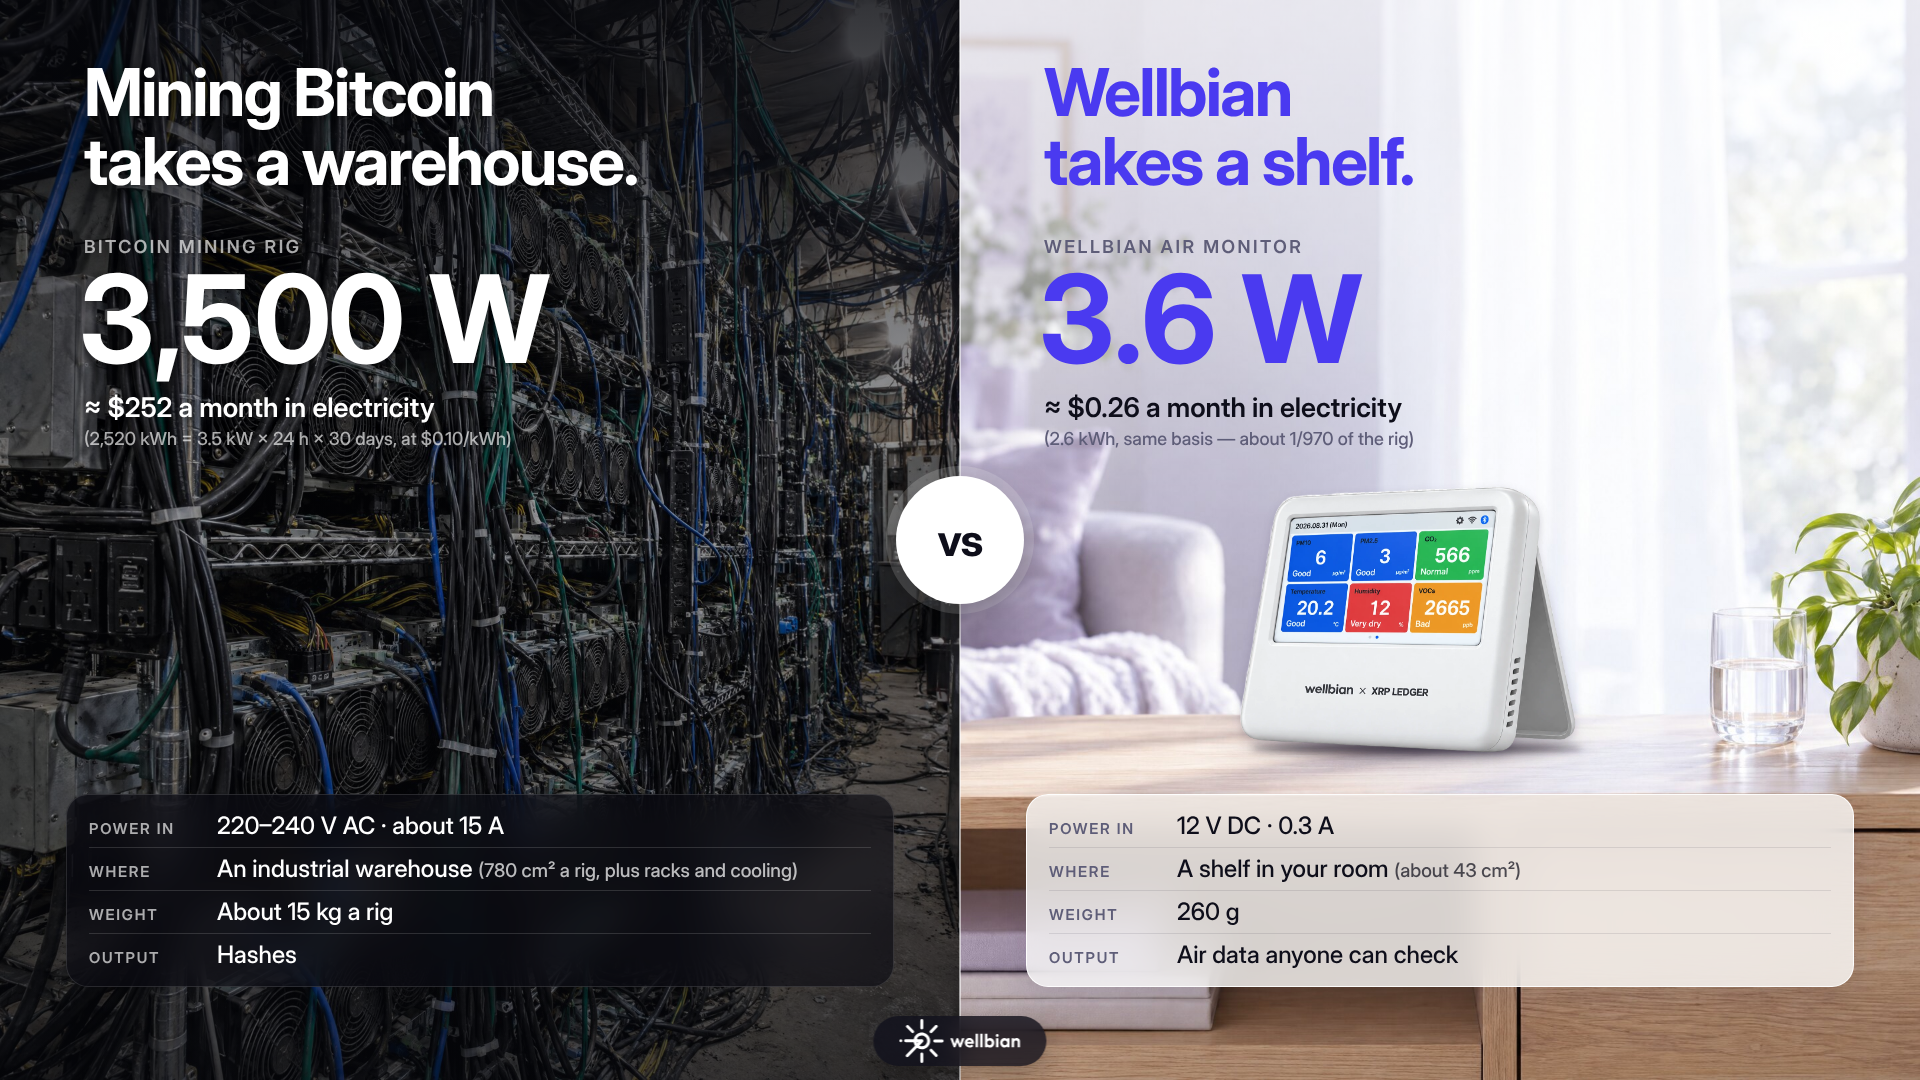
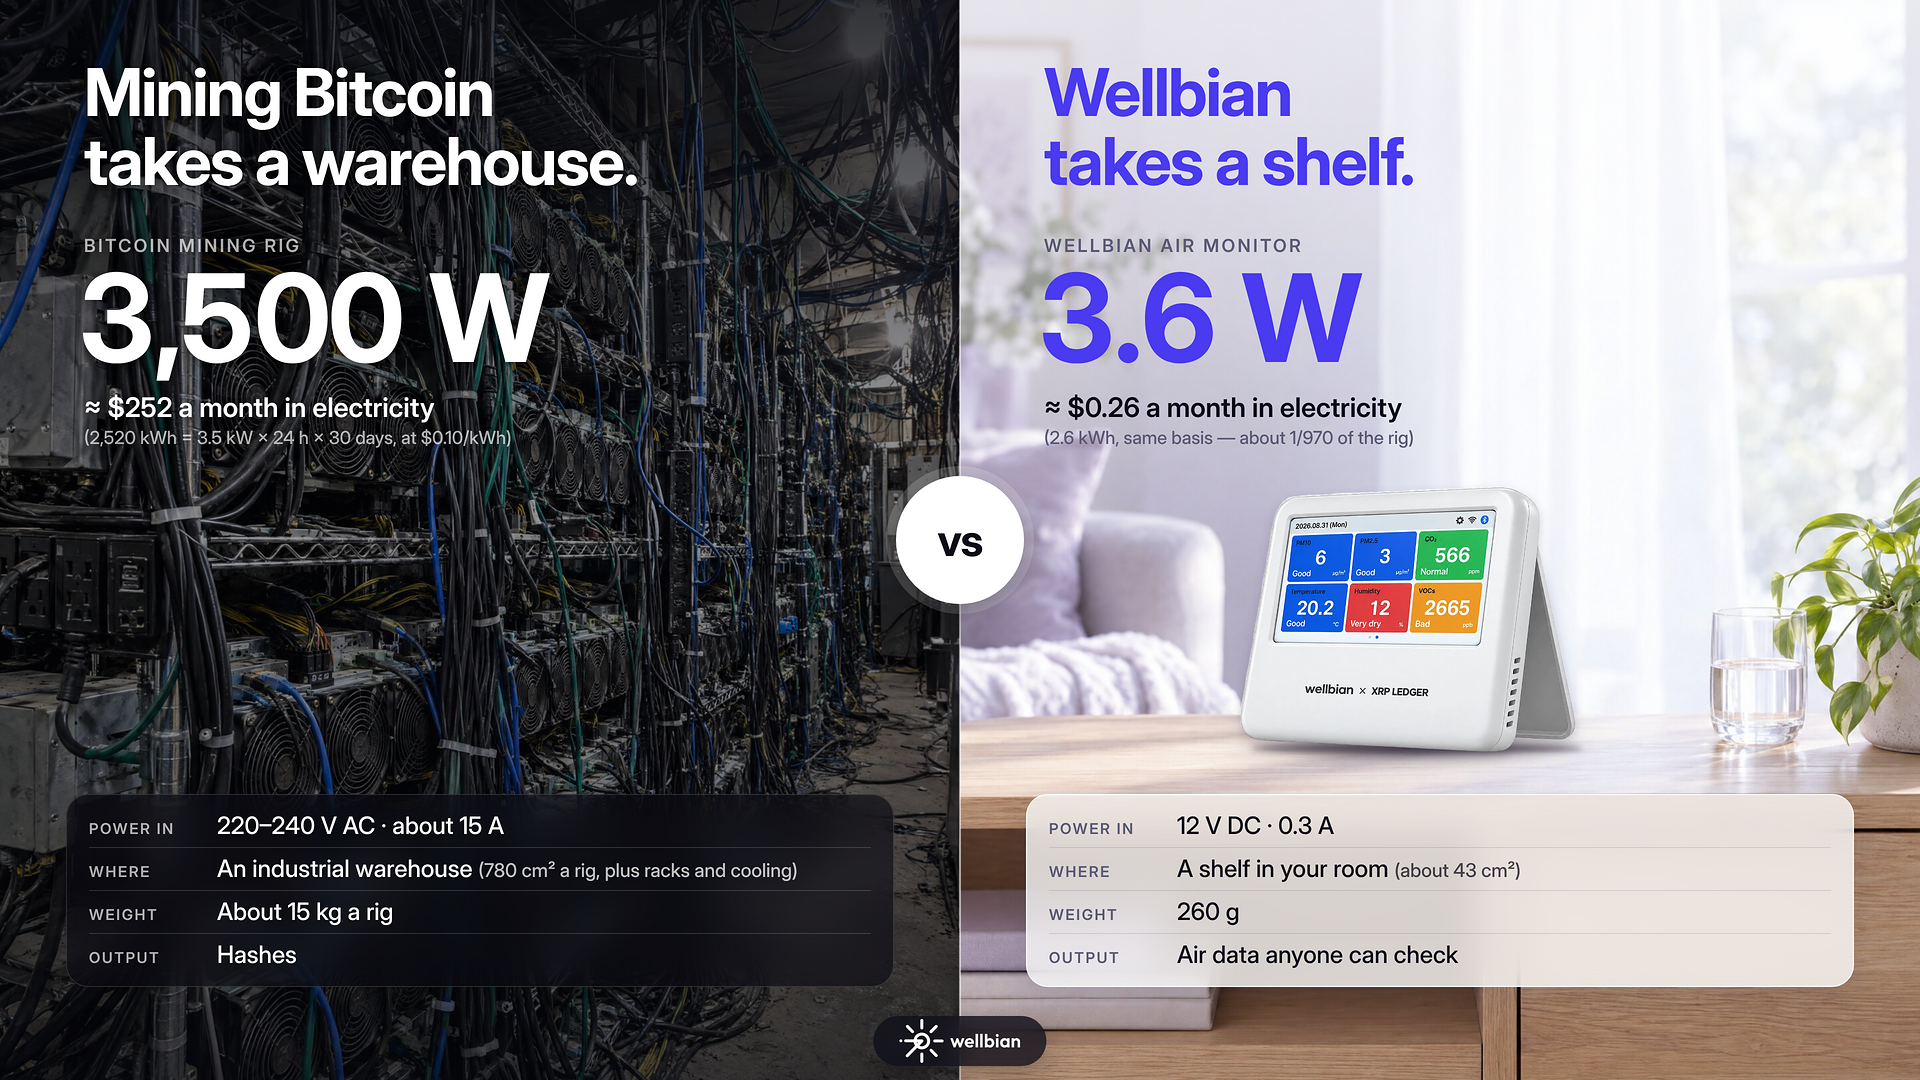
depin: warehouse-vs-shelf v3.1 (sharper product cutout, 2x render)
Claude-Session: https://claude.ai/code/session_014drgzQYBXTLjd1zzmsjRaS

diff --git a/depin/content/sns-energy-1020/tpl.html b/depin/content/sns-energy-1020/tpl.html
@@ -64,7 +64,7 @@ html[lang=ko] .tag,html[lang=ko] .row span{letter-spacing:.02em}
     <div class="row"><span>{{k4}}</span><div>{{r4}}</div></div>
   </div></div></div>
 <div class="shadow2"></div><div class="shadow"></div><div class="contact"></div>
-<img class="dev" src="assets/device-cut.png" alt="Wellbian air monitor">
+<img class="dev" src="assets/device-cut-277.png" alt="Wellbian air monitor">
 <div class="seam"></div>
 <div class="vs">vs</div>
 <div class="logo"><img src="assets/wellbian-nav.svg" alt="wellbian"></div>

diff --git a/depin/reports/work-log.md b/depin/reports/work-log.md
@@ -2407,3 +2407,4 @@ Thanks Odelia — writing to you at that address today. Mine is support@wellbian
 - **SNS 16:9 「창고 vs 선반」(10/20, 서우 「비트코인 채굴장 vs 측정기 좌우 대비 · 2문장 · 애플 광고처럼」)** — `content/sns-energy-1020/`(영 · 국 PNG + 틀 · README). 상단 「Mining Bitcoin takes a warehouse. / Wellbian takes a shelf.」 · 좌 3,500 W(Antminer S21 표기) · 우 3.6 W(12 V · 300 mA) · 어디에 · 만드는 것 · 필요한 것 · 하단 시그니처 「An air-quality network shouldn't cost the air.」 첫 사용. 수익 · 회수 · 보상 0 · 소음 비교 뺌(팬 미확인) · 채굴장 사진은 출처 미상 → 게시 전 교체.
 - **「창고 vs 선반」 v2(10/20, 서우 「채굴장 AI 새로 · 배경 전부 사진 · 가운데 vs · 스펙 재확인 12VDC 300mA · 비트코인도 비교 · 어디에 면적」)** — 좌 AI 채굴장 · 우 AI 거실 + 실제 제품 컷아웃(배경 제거) · 가운데 vs. 행 넷: 전원(220–240 V AC · 약 15 A vs 12 V DC · 0.3 A) · 어디에(780 cm² + 랙 · 냉방 vs 약 43 cm²) · 무게(약 15 kg vs 260 g) · 만드는 것. 큰 숫자 3,500 W vs 3.6 W. Higgsfield 약 6.6 크레딧(이미지 2 + 배경 제거). README 표에 출처.
 - **「창고 vs 선반」 v3(10/20, 서우 「전기료 + 근거 괄호 · 좌측 더 지저분 · 기기 그림자 · 비교표 반투명 · 최하단 줄 삭제 · 가운데 로고」)** — 월 2,520 kWh ≈ $252 / 37만 8천 원 vs 2.6 kWh ≈ $0.26 / 390원(같은 단가 가정 · 약 1/970) · 채굴장 재생성(케이블 다발) · 접지 그림자 · 유리 판 · 하단 공식 로고 알약. 시그니처는 빠져 다시 미사용. Higgsfield 추가 약 2.75 크레딧.
+- **「창고 vs 선반」 v3.1(10/20, 서우 「우측 디바이스 이 사진으로 · 선명하게」)** — 새 원본 배경 제거 + 언샵 · 2배(3840×2160) 렌더 추가(게시용) · 1920 판은 2배에서 축소. Higgsfield 배경 제거 1회 추가.
